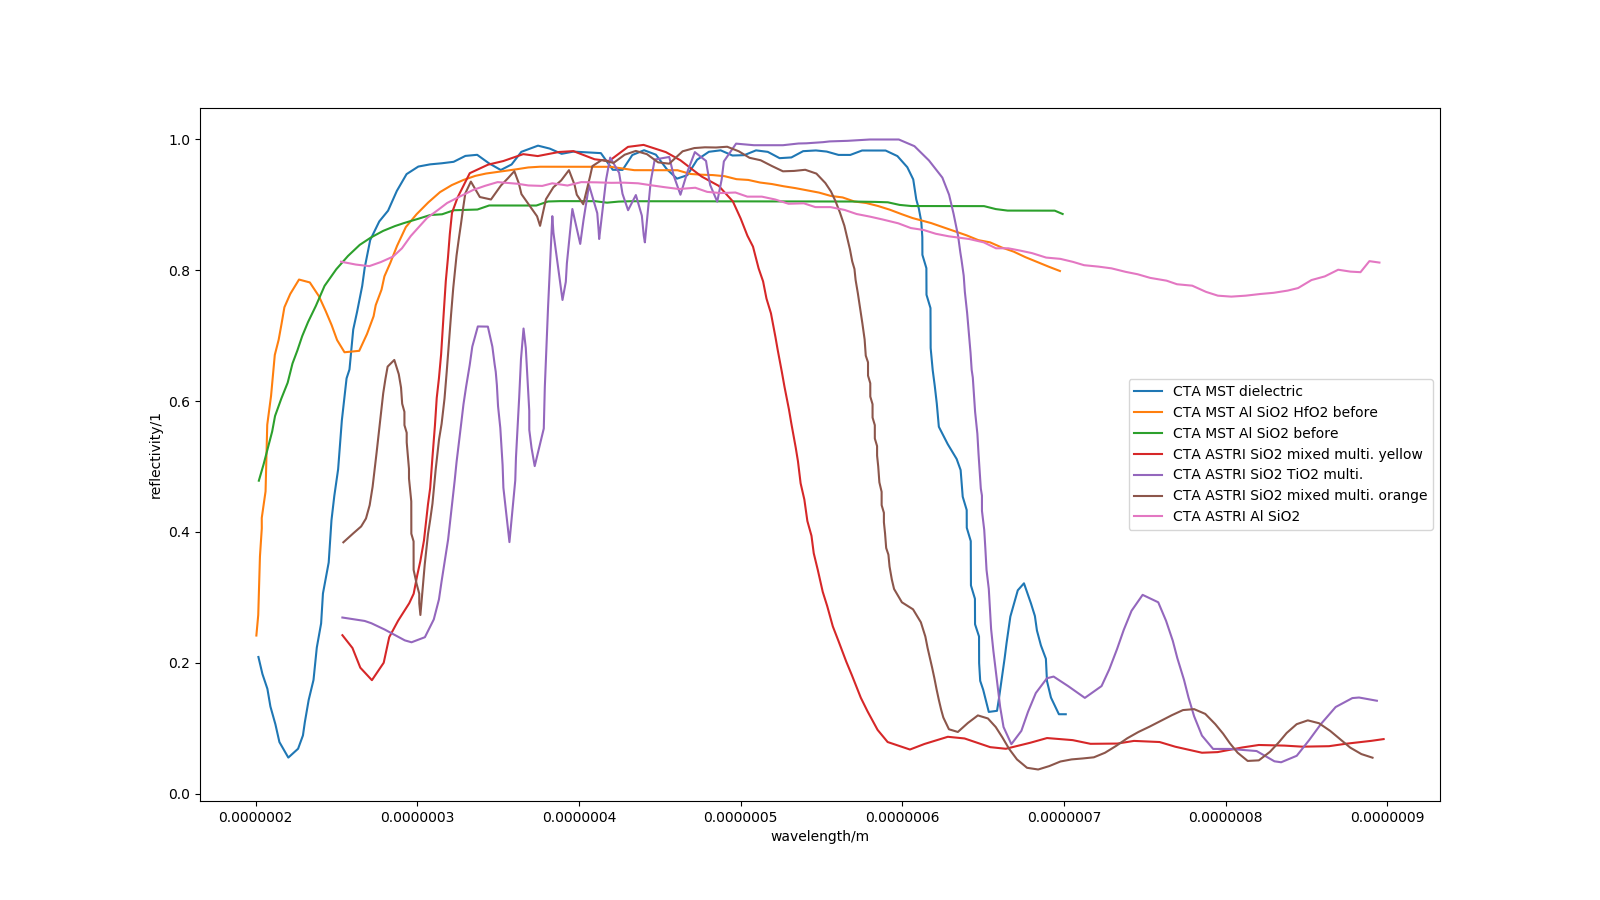
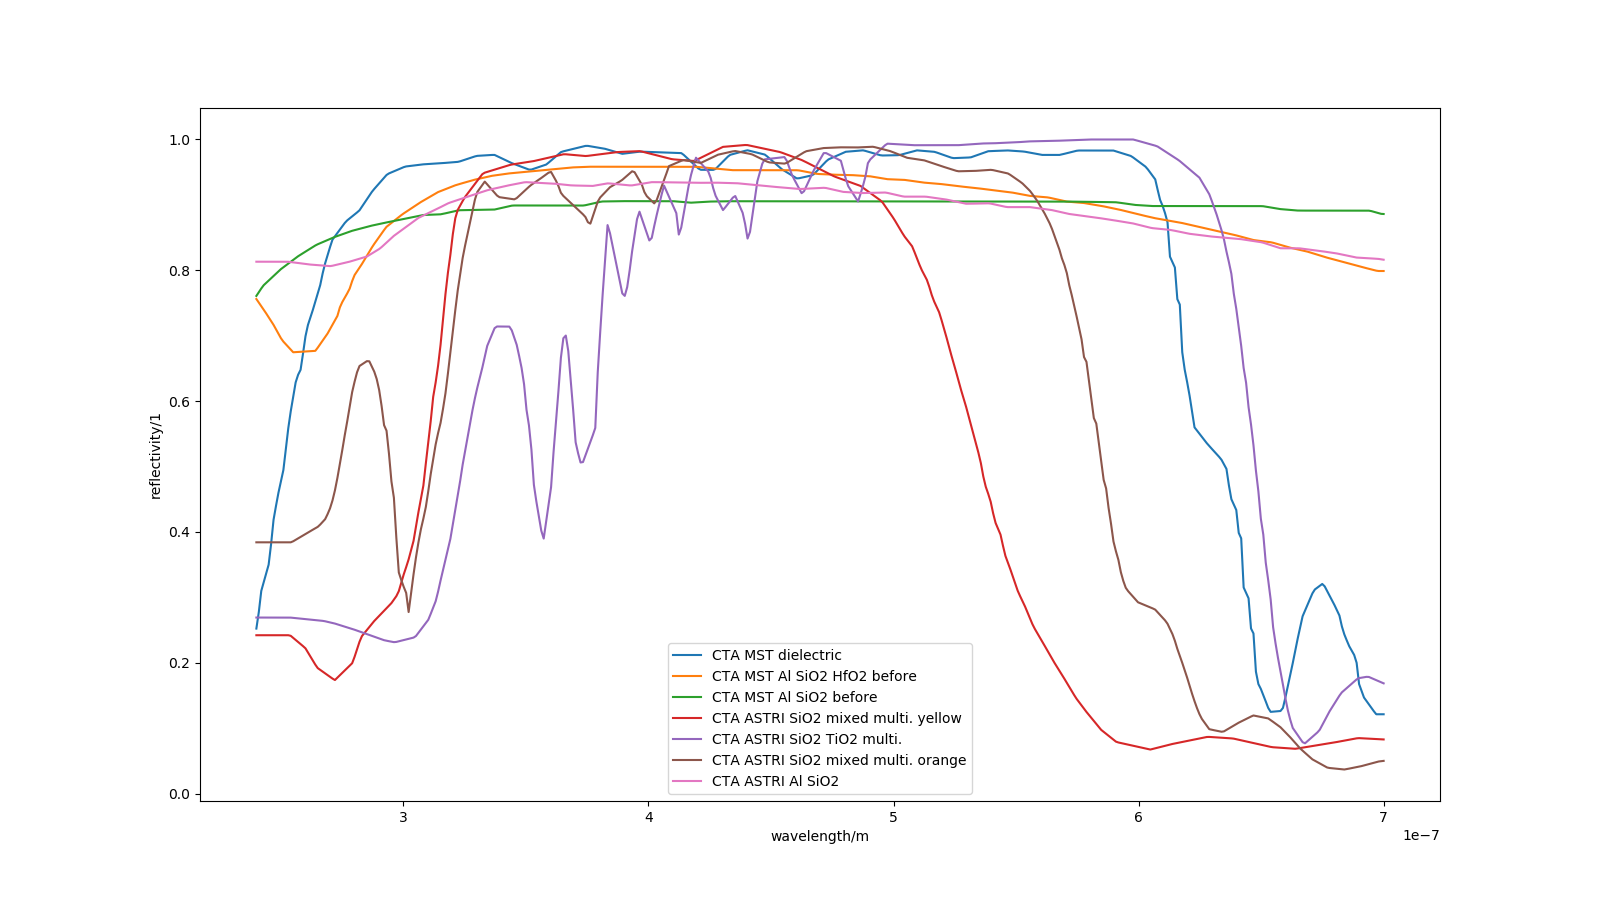
separate equal_sampling

diff --git a/plot.py b/plot.py
@@ -1,64 +1,14 @@
-from cherenkov_la_palma import cherenkov_histogram_on_ground
-from cherenkov_la_palma import cherenkov_histogram_on_ground_zenith_distance_70deg
-from hamamatsu_r11920_100_05 import hamamatsu_r11920_100_05
-from hamamatsu_s10362_33_050c import hamamatsu_s10362_33_050c
-from nsb_la_palma_2002_hoffmann import la_palma_2002_hoffmann
-from nsb_la_palma_2013_benn import la_palma_2013_benn
-from veritas_nsb_filter_2015 import veritas_nsb_filter_2015
+import equal_sampling as es
 
-import numpy as np
-import matplotlib.pyplot as plt
-
-wavelength = np.linspace(200e-9, 700e-9, 1337)
-
-cherenkov_la_palma = np.interp(
-    x=wavelength,
-    xp=cherenkov_histogram_on_ground[:, 0],
-    fp=cherenkov_histogram_on_ground[:, 1],)
-cherenkov_la_palma[wavelength < 250e-9] = np.nan
-
-cherenkov_la_palma_zd_70deg = np.interp(
-    x=wavelength,
-    xp=cherenkov_histogram_on_ground_zenith_distance_70deg[:, 0],
-    fp=cherenkov_histogram_on_ground_zenith_distance_70deg[:, 1],)
-cherenkov_la_palma_zd_70deg[wavelength < 250e-9] = np.nan
-
-sipm = np.interp(
-    x=wavelength,
-    xp=hamamatsu_s10362_33_050c[:, 0],
-    fp=hamamatsu_s10362_33_050c[:, 1],)
-
-pmt = np.interp(
-    x=wavelength,
-    xp=hamamatsu_r11920_100_05[:, 0],
-    fp=hamamatsu_r11920_100_05[:, 1],)
-
-nsb_diff_la_palma_hoffmann = np.interp(
-    x=wavelength,
-    xp=la_palma_2002_hoffmann[:, 0],
-    fp=la_palma_2002_hoffmann[:, 1],)
-
-nsb_diff_la_palma_hoffmann[wavelength < 362e-9] = np.nan
-nsb_diff_la_palma_hoffmann[wavelength > 550e-9] = np.nan
-
-nsb_diff_la_palma_benn = np.interp(
-    x=wavelength,
-    xp=la_palma_2013_benn[:, 0],
-    fp=la_palma_2013_benn[:, 1],)
-
-nsb_filter = np.interp(
-    x=wavelength,
-    xp=veritas_nsb_filter_2015[:, 0],
-    fp=veritas_nsb_filter_2015[:, 1],)
 
 plt.figure()
 lbenn, = plt.plot(
-    wavelength,
-    nsb_diff_la_palma_benn,
+    es.wavelength,
+    es.nsb_diff_la_palma_benn,
     label='night-sky-background, La Palma, Benn')
 lhoff, = plt.plot(
-    wavelength,
-    nsb_diff_la_palma_hoffmann,
+    es.wavelength,
+    es.nsb_diff_la_palma_2002_hoffmann,
     label='night-sky-background, La Palma, Hoffmann')
 plt.semilogy()
 plt.ylabel('differential flux/(m^-2 sr^-1 m^-1)')
@@ -67,8 +17,8 @@ plt.legend(handles=[lbenn, lhoff])
 plt.savefig('./readme/nsb.png')
 
 plt.figure()
-lsipm, = plt.plot(wavelength, sipm, label='FACT SiPM')
-lpmt, = plt.plot(wavelength, pmt, label='CTA LST PMT')
+lsipm, = plt.plot(es.wavelength, es.hamamatsu_s10362_33_050c, label='FACT SiPM')
+lpmt, = plt.plot(es.wavelength, es.hamamatsu_r11920_100_05, label='CTA LST PMT')
 plt.ylabel('photon-detection-efficiency/1')
 plt.xlabel('wavelength/m')
 plt.legend(handles=[lsipm, lpmt])
@@ -76,12 +26,12 @@ plt.savefig('./readme/pde.png')
 
 plt.figure()
 lcer, = plt.plot(
-    wavelength,
-    cherenkov_la_palma,
+    es.wavelength,
+    es.cherenkov_histogram_on_ground,
 	label='3TeV gamma, Cherenkov La Palma, 2200m asl, Zd: 0deg')
 lcer70, = plt.plot(
-    wavelength,
-    cherenkov_la_palma_zd_70deg,
+    es.wavelength,
+    es.cherenkov_la_palma_zd_70deg,
 	label='3TeV gamma, Cherenkov La Palma, 2200m asl, Zd: 70deg')
 plt.ylabel('relative/1')
 plt.xlabel('wavelength/m')
@@ -90,8 +40,8 @@ plt.savefig('./readme/cherenkov.png')
 
 plt.figure()
 lfilter, = plt.plot(
-    wavelength,
-    nsb_filter,
+    es.wavelength,
+    es.veritas_nsb_filter_2015,
     label='VERITAS night-sky-background filter')
 plt.ylabel('transmission/1')
 plt.xlabel('wavelength/m')
@@ -99,36 +49,36 @@ plt.legend(handles=[lfilter])
 plt.savefig('./readme/transmission.png')
 plt.close('all')
 
-from cta_mirrors import *
+
 
 plt.figure(figsize=(16,9))
 l0, = plt.plot(
-    mst_dielectric[:, 0],
-    mst_dielectric[:, 1],
+    es.wavelength,
+    es.mst_dielectric,
     label='CTA MST dielectric')
 l1, = plt.plot(
-    mst_Al_SiO2_HfO2_SiO2_before[:, 0],
-    mst_Al_SiO2_HfO2_SiO2_before[:, 1],
+    es.wavelength,
+    es.mst_Al_SiO2_HfO2_SiO2_before,
     label='CTA MST Al SiO2 HfO2 before')
 l2, = plt.plot(
-    mst_Al_SiO2_before[:, 0],
-    mst_Al_SiO2_before[:, 1],
+    es.wavelength,
+    es.mst_Al_SiO2_before,
     label='CTA MST Al SiO2 before')
 l3, = plt.plot(
-    astri_SiO2_mixed_multilayer_yellow[:, 0],
-    astri_SiO2_mixed_multilayer_yellow[:, 1],
+    es.wavelength,
+    es.astri_SiO2_mixed_multilayer_yellow,
     label='CTA ASTRI SiO2 mixed multi. yellow')
 l4, = plt.plot(
-    astri_SiO2_TiO2_mulitlayer[:, 0],
-    astri_SiO2_TiO2_mulitlayer[:, 1],
+    es.wavelength,
+    es.astri_SiO2_TiO2_mulitlayer,
     label='CTA ASTRI SiO2 TiO2 multi.')
 l5, = plt.plot(
-    astri_SiO2_mixed_multilayer_orange[:, 0],
-    astri_SiO2_mixed_multilayer_orange[:, 1],
+    es.wavelength,
+    es.astri_SiO2_mixed_multilayer_orange,
     label='CTA ASTRI SiO2 mixed multi. orange')
 l6, = plt.plot(
-    astri_Al_SiO2[:, 0],
-    astri_Al_SiO2[:, 1],
+    es.wavelength,
+    es.astri_Al_SiO2,
     label='CTA ASTRI Al SiO2')
 plt.ylabel('reflectivity/1')
 plt.xlabel('wavelength/m')

diff --git a/equal_sampling.py b/equal_sampling.py
@@ -1,0 +1,88 @@
+import cherenkov_la_palma
+import cherenkov_cta_chile
+import hamamatsu_r11920_100_05
+import hamamatsu_s10362_33_050c
+import nsb_la_palma_2002_hoffmann
+import nsb_la_palma_2013_benn
+import veritas_nsb_filter_2015
+import cta_mirrors
+import numpy as np
+
+wavelength = np.linspace(240e-9, 700e-9, 460)
+
+cherenkov_histogram_on_ground = np.interp(
+    x=wavelength,
+    xp=cherenkov_la_palma.cherenkov_histogram_on_ground[:, 0],
+    fp=cherenkov_la_palma.cherenkov_histogram_on_ground[:, 1],)
+
+cherenkov_la_palma_zd_70deg = np.interp(
+    x=wavelength,
+    xp=cherenkov_la_palma.cherenkov_histogram_on_ground_zenith_distance_70deg[:, 0],
+    fp=cherenkov_la_palma.cherenkov_histogram_on_ground_zenith_distance_70deg[:, 1],)
+
+cherenkov_gamma_below_5gev_5000m_asl = np.interp(
+    x=wavelength,
+    xp=cherenkov_cta_chile.cherenkov_gamma_below_5gev_5000m_asl[:, 0],
+    fp=cherenkov_cta_chile.cherenkov_gamma_below_5gev_5000m_asl[:, 1],)
+
+hamamatsu_s10362_33_050c = np.interp(
+    x=wavelength,
+    xp=hamamatsu_s10362_33_050c.hamamatsu_s10362_33_050c[:, 0],
+    fp=hamamatsu_s10362_33_050c.hamamatsu_s10362_33_050c[:, 1],)
+
+hamamatsu_r11920_100_05 = np.interp(
+    x=wavelength,
+    xp=hamamatsu_r11920_100_05.hamamatsu_r11920_100_05[:, 0],
+    fp=hamamatsu_r11920_100_05.hamamatsu_r11920_100_05[:, 1],)
+
+nsb_diff_la_palma_2002_hoffmann = np.interp(
+    x=wavelength,
+    xp=nsb_la_palma_2002_hoffmann.la_palma_2002_hoffmann[:, 0],
+    fp=nsb_la_palma_2002_hoffmann.la_palma_2002_hoffmann[:, 1],)
+nsb_diff_la_palma_2002_hoffmann[wavelength < 362e-9] = np.nan
+nsb_diff_la_palma_2002_hoffmann[wavelength > 550e-9] = np.nan
+
+nsb_diff_la_palma_benn = np.interp(
+    x=wavelength,
+    xp=nsb_la_palma_2013_benn.la_palma_2013_benn[:, 0],
+    fp=nsb_la_palma_2013_benn.la_palma_2013_benn[:, 1],)
+
+veritas_nsb_filter_2015 = np.interp(
+    x=wavelength,
+    xp=veritas_nsb_filter_2015.veritas_nsb_filter_2015[:, 0],
+    fp=veritas_nsb_filter_2015.veritas_nsb_filter_2015[:, 1],)
+
+mst_dielectric = np.interp(
+    x=wavelength,
+    xp=cta_mirrors.mst_dielectric[:, 0],
+    fp=cta_mirrors.mst_dielectric[:, 1],)
+
+mst_Al_SiO2_before = np.interp(
+    x=wavelength,
+    xp=cta_mirrors.mst_Al_SiO2_before[:, 0],
+    fp=cta_mirrors.mst_Al_SiO2_before[:, 1],)
+
+mst_Al_SiO2_HfO2_SiO2_before = np.interp(
+    x=wavelength,
+    xp=cta_mirrors.mst_Al_SiO2_HfO2_SiO2_before[:, 0],
+    fp=cta_mirrors.mst_Al_SiO2_HfO2_SiO2_before[:, 1],)
+
+astri_SiO2_mixed_multilayer_yellow = np.interp(
+    x=wavelength,
+    xp=cta_mirrors.astri_SiO2_mixed_multilayer_yellow[:, 0],
+    fp=cta_mirrors.astri_SiO2_mixed_multilayer_yellow[:, 1],)
+
+astri_SiO2_TiO2_mulitlayer = np.interp(
+    x=wavelength,
+    xp=cta_mirrors.astri_SiO2_TiO2_mulitlayer[:, 0],
+    fp=cta_mirrors.astri_SiO2_TiO2_mulitlayer[:, 1],)
+
+astri_SiO2_mixed_multilayer_orange = np.interp(
+    x=wavelength,
+    xp=cta_mirrors.astri_SiO2_mixed_multilayer_orange[:, 0],
+    fp=cta_mirrors.astri_SiO2_mixed_multilayer_orange[:, 1],)
+
+astri_Al_SiO2 = np.interp(
+    x=wavelength,
+    xp=cta_mirrors.astri_Al_SiO2[:, 0],
+    fp=cta_mirrors.astri_Al_SiO2[:, 1],)
